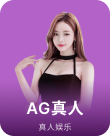
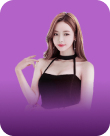
Dy home pages

Changed region(s): [[0.2455, 0.7353, 0.7636, 0.8529], [0.3545, 0.8824, 0.6545, 0.9706]]

diff --git a/dy-static-new-h5/src/pages/HomePage.vue b/dy-static-new-h5/src/pages/HomePage.vue
@@ -75,11 +75,6 @@
             slidesPerView: 4,
             spaceBetween: 8
           },
-          // when window width is >= 480px
-          480: {
-            slidesPerView: 5,
-            spaceBetween: 8
-          },
         }"
         watch-slides-progress
         @swiper="setSecondSwiper"
@@ -249,6 +244,10 @@
                 >
                   <img class="game-bg"
                        :src="require(`../assets/index/${live.icon}/slide-${live.icon}-${live.name.toLowerCase()}.png`)"/>
+                  <div class="game-title">
+                    <h3>{{ live.name }}</h3>
+                    <span>真人娱乐</span>
+                  </div>
                 </div>
               </div>
             </div>
@@ -269,7 +268,7 @@
           <!--            />-->
           <!--          </template>-->
         </swiper-slide>
-        <swiper-slide :class="sport-slides">
+        <swiper-slide class="sport-slides">
 
           <div class="home-game-boards">
             <h2>体育赛事</h2>
@@ -278,9 +277,12 @@
               <div v-for="(sp, i) in sport" :key="i"
                    class="game-item-div">
                 <div class="game-board">
-                  <img src="../assets/index/slides/game-bg-ag.png"/>
-                  <h3>{{ sp.name }}</h3>
-                  <span>体育赛事</span>
+                  <img class="game-bg"
+                       :src="require(`../assets/index/${sp.icon}/slide-${sp.icon}-${sp.name.toLowerCase()}.png`)"/>
+                  <div class="game-title">
+                    <h3>{{ sp.name }}</h3>
+                    <span>体育赛事</span>
+                  </div>
                 </div>
               </div>
             </div>
@@ -301,9 +303,14 @@
               <div v-for="(es, i) in esport" :key="i"
                    class="game-item-div">
                 <div class="game-board">
-                  <img src="../assets/index/slides/game-bg-ag.png"/>
-                  <h3>{{ es.name }}</h3>
-                  <span>电竞赛事</span>
+
+                  <img class="game-bg"
+                       :src="require(`../assets/index/${es.icon}/slide-${es.icon}-${es.name.toLowerCase()}.png`)"/>
+                  <div class="game-title">
+                    <h3>{{ es.name }}</h3>
+                    <span>电竞赛事</span>
+                  </div>
+
                 </div>
               </div>
             </div>
@@ -316,21 +323,43 @@
           <!--          />-->
         </swiper-slide>
 
-        <swiper-slide :key="i" :class="'slot-' + i">
+        <swiper-slide class="slot-slides">
 
           <div class="home-game-boards">
             <h2>电子游戏</h2>
 
-            <div class="game-list-div">
-              <div v-for="(slt, i) in slot" :key="i"
-                   class="game-item-div">
-                <div class="game-board">
-                  <img src="../assets/index/slides/game-bg-ag.png"/>
-                  <h3>{{ slt.name }}</h3>
-                  <span>电子游戏</span>
+
+            <swiper
+                :modules="[Thumbs, Controller]"
+                :freeMode="true"
+                :set-wrapper-size="true"
+                :scrollbar="{ draggable: true }"
+                :mousewheel="true"
+                :space-between="16"
+                :slides-per-view="3"
+                watch-slides-progress
+                class="slot-swiper"
+            >
+              <swiper-slide
+                  v-for="(slt, i) in slot" :key="i"
+              >
+                <div class="game-list-div">
+                  <div
+                       class="game-item-div slot-item">
+                    <div class="game-board">
+                      <img class="game-bg"
+                           :src="require(`../assets/index/${slt.icon}/slide-${slt.icon}-${slt.name.toLowerCase()}.png`)"/>
+                      <div class="game-title">
+                        <h3>{{ slt.name }}</h3>
+                        <span>电子游戏</span>
+                      </div>
+
+                    </div>
+                  </div>
                 </div>
-              </div>
-            </div>
+              </swiper-slide>
+            </swiper>
+
           </div>
 
           <!--          <PlatformBlock dataType="slot" :data="slt"/>-->
@@ -348,9 +377,15 @@
                    :key="i"
                    class="game-item-div">
                 <div class="game-board">
-                  <img src="../assets/index/slides/game-bg-ag.png"/>
-                  <h3>{{ fish.name }}</h3>
-                  <span>捕鱼游戏</span>
+
+                  <img class="game-bg"
+                       :src="require(`../assets/index/${fish.icon}/slide-${fish.icon}-${fish.name.toLowerCase()}.png`)"/>
+                  <div class="game-title">
+                    <h3>{{ fish.name }}</h3>
+                    <span>捕鱼游戏</span>
+                  </div>
+
+
                 </div>
               </div>
             </div>
@@ -387,9 +422,15 @@
               <div v-for="(poke, i) in poker" :key="i"
                    class="game-item-div">
                 <div class="game-board">
-                  <img src="../assets/index/slides/game-bg-ag.png"/>
-                  <h3>{{ poke.name }}</h3>
-                  <span>棋牌游戏</span>
+
+                  <img class="game-bg"
+                       :src="require(`../assets/index/${poke.icon}/slide-${poke.icon}-${poke.name.toLowerCase()}.png`)"/>
+                  <div class="game-title">
+                    <h3>{{ poke.name }}</h3>
+                    <span>棋牌游戏</span>
+                  </div>
+
+
                 </div>
               </div>
             </div>
@@ -418,9 +459,13 @@
                    :key="i"
                    class="game-item-div">
                 <div class="game-board">
-                  <img src="../assets/index/slides/game-bg-ag.png"/>
-                  <h3>{{ lotter.name }}</h3>
-                  <span>彩票游戏</span>
+
+                  <img class="game-bg"
+                       :src="require(`../assets/index/${lotter.icon}/slide-${lotter.icon}-${lotter.name.toLowerCase()}.png`)"/>
+                  <div class="game-title">
+                    <h3>{{ lotter.name }}</h3>
+                    <span>彩票游戏</span>
+                  </div>
                 </div>
               </div>
             </div>
@@ -1297,9 +1342,48 @@ export default defineComponent({
         width: calc((100% - 35px) / 3);
         flex-wrap: nowrap;
 
+        &.slot-item{
+          width:100%;
+        }
+
         .game-board {
           position: relative;
           height: 170px;
+
+          .game-title {
+            position: absolute;
+            z-index: 2;
+            bottom: 0px;
+            left: 0px;
+            right: 0px;
+            width: 100%;
+            display:flex;
+            flex-direction: column;
+            align-items: center;
+            justify-content: space-between;
+          }
+
+          h3 {
+            line-height: 24px;
+            font-size: 20px;
+            color: #fff;
+            margin-top: 0px;
+            margin-bottom: 3px;
+            text-align: center;
+            font-weight: 600;
+            letter-spacing: 1px;
+          }
+
+          span {
+            font-size: 10px;
+            font-weight: 300;
+            color: #fff;
+            text-align: center;
+            margin-bottom: 5px;
+            width: 100%;
+            letter-spacing: 1px;
+          }
+
         }
       }
     }

diff --git a/dy-static-new-h5/src/css/app.scss b/dy-static-new-h5/src/css/app.scss
@@ -92,23 +92,6 @@ body.platform-ios .q-dialog__inner--minimized > div {
   max-height: calc(100vh - 108px);
 }
 
-.game-title {
-  font-family: "Wave";
-  font-size: 50px;
-  line-height: 60px;
-  color: #db7e42;
-  text-align: center;
-  background-color: linear-gradient(to right, #de4545, #db7e42);
-  background-image: linear-gradient(to right, #de4545, #db7e42);
-  -webkit-background-clip: text;
-  -webkit-text-fill-color: #db7e42;
-
-  .menu-title {
-    color: #db7e42;
-    margin-bottom: 20px;
-    display: block;
-  }
-}
 
 .page-title {
   margin: 5px;
